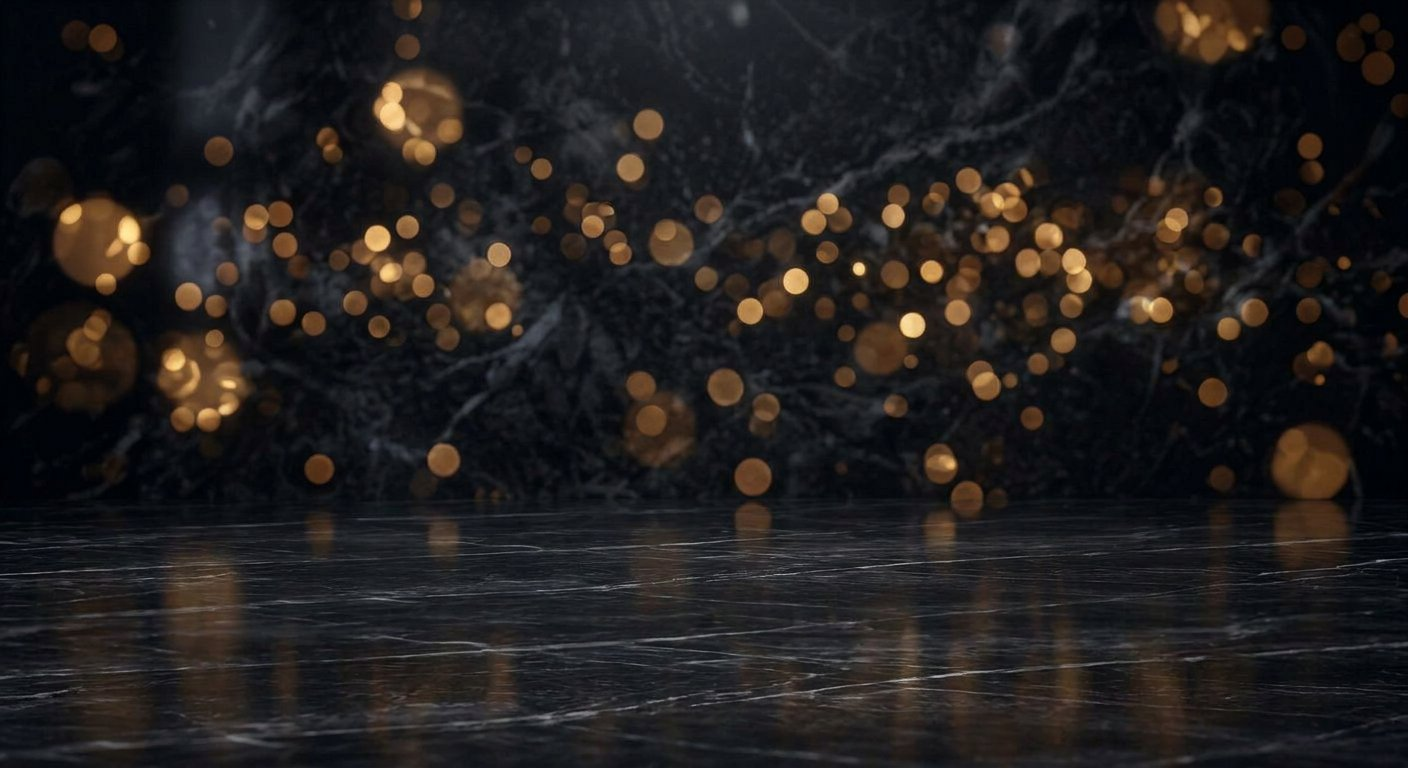
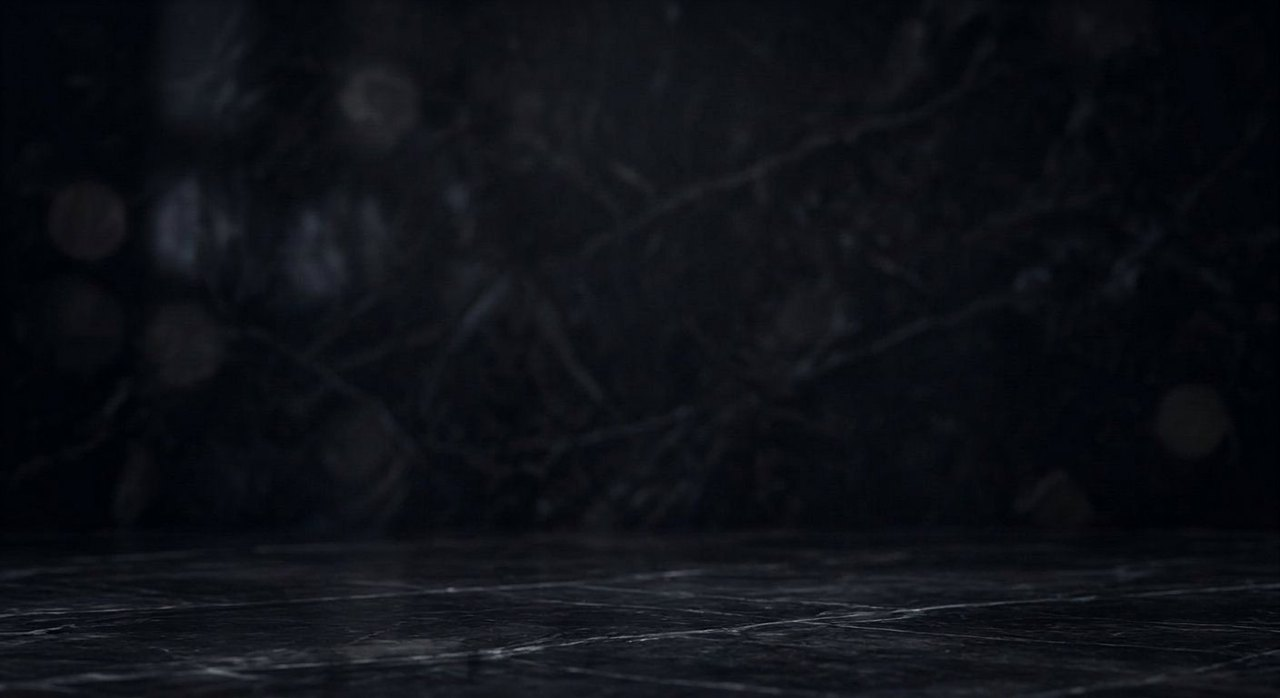
Replace ranking podium backdrop with quiet dark marble (v122)

diff --git a/index.html b/index.html
@@ -19,7 +19,7 @@
 <link rel="preload" href="fonts/IranNastaliq.woff2" as="font" type="font/woff2" crossorigin>
 <script>
 (function () {
-  var V = "v121";
+  var V = "v122";
   try {
     if (localStorage.getItem("patoghNuke") === V) return;
     localStorage.setItem("patoghNuke", V);
@@ -51,7 +51,7 @@
   }).then(reload, reload);
 })();
 </script>
-<link rel="stylesheet" href="css/style.css?v=121">
+<link rel="stylesheet" href="css/style.css?v=122">
 <link rel="stylesheet" href="css/login.css">
 <style id="rankPodiumFix"></style>
 </head>
@@ -377,7 +377,7 @@
 <div id="modalBg" class="modalbg"></div>
 <div id="toast" class="toast" role="status" aria-live="polite" aria-atomic="true"></div>
 <script src="js/config.js"></script>
-<script src="js/app.js?v=121"></script>
+<script src="js/app.js?v=122"></script>
 <div id="offlineBar" style="display:none;position:fixed;bottom:0;left:0;right:0;background:#7a5f1a;color:#fff;padding:8px 12px;z-index:99999;text-align:center;font-size:13px;cursor:pointer">🔌 حالت محلی — سرور در دسترس نیست. برای تلاش مجدد اینجا را لمس کن</div>
 <script src="js/local-mode.js"></script>
 <!-- بارگذاری از CDN رسمی، همراه با fallback از CDNهای جایگزین -->

diff --git a/css/style.css b/css/style.css
@@ -3091,22 +3091,11 @@ html[dir="rtl"] input[type="date"]::-webkit-calendar-picker-indicator {
   justify-content: center;
   gap: 6px;
   min-height: 320px;
-  padding: 10px 8px 18px;
+  padding: 16px 8px 22px;
   color-scheme: light;
-  overflow: visible;
-}
-.rank-bars::before {
-  content: "";
-  position: absolute;
-  left: 0;
-  right: 0;
-  bottom: 0;
-  height: 68%;
-  background: url("../img/ranking/bg-marble.jpg") center bottom / cover no-repeat;
+  overflow: hidden;
   border-radius: 18px;
-  z-index: 0;
-  pointer-events: none;
-  box-shadow: inset 0 -30px 36px rgba(0, 0, 0, 0.4);
+  background: url("../img/ranking/bg-marble.jpg") center bottom / cover no-repeat;
 }
 .rank-col {
   position: relative;

diff --git a/service-worker.js b/service-worker.js
@@ -2,7 +2,7 @@
    - صفحه و کدهای برنامه (html/js/css): اول شبکه (با timeout)، اگه نشد از کش.
      اینطوری نسخهی جدید با اولین رفرش دیده میشه.
    - فونت، آیکون و supabase.js: اول کش، پشتصحنه تازه میشن. */
-var VERSION = 'v121';
+var VERSION = 'v122';
 var CACHE = 'patogh-' + VERSION;
 var CORE = [
   './',
